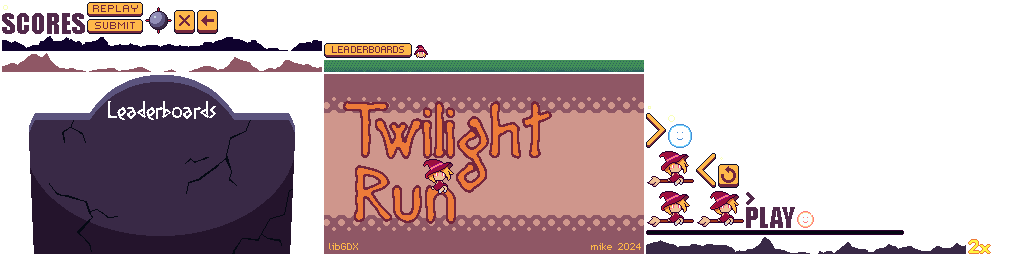
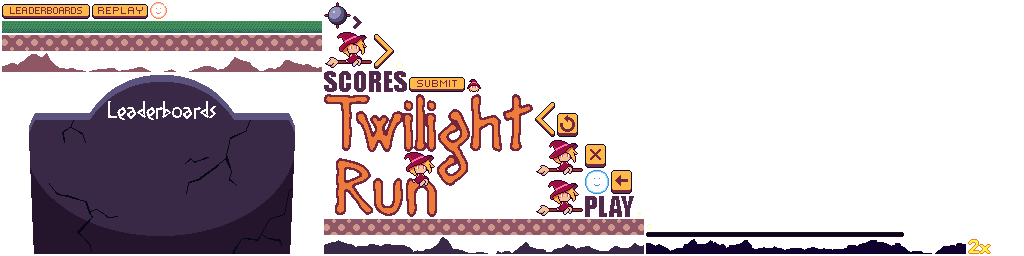
clean up title screen, added music cycle for testing

diff --git a/core/src/main/java/com/distraction/ttd2024/screen/TitleScreen.java b/core/src/main/java/com/distraction/ttd2024/screen/TitleScreen.java
@@ -10,12 +10,20 @@ import com.distraction.ttd2024.entity.FontEntity;
 
 public class TitleScreen extends Screen {
 
-    private final TextureRegion bg;
+    private static final Color BG_COLOR1 = Color.valueOf("8F5765");
+    private static final Color BG_COLOR2 = Color.valueOf("CF968C");
+
+    private final TextureRegion bg1;
+    private final TextureRegion bg2;
+    private final TextureRegion title;
     private final Entity playButton;
     private final Entity scoresButton;
     private final Entity arrow;
 
     private final FontEntity playerFont;
+    private final FontEntity engineFont;
+    private final FontEntity creditsFont;
+    private final FontEntity versionFont;
 
     private final FontEntity errorFont;
     private float errorFontTime;
@@ -26,7 +34,9 @@ public class TitleScreen extends Screen {
     public TitleScreen(Context context) {
         super(context);
 
-        bg = context.getImage("title");
+        bg1 = context.getImage("titlebg1");
+        bg2 = context.getImage("titlebg2");
+        title = context.getImage("title");
         playButton = new Entity(context, context.getImage("play"), 250, 80);
         scoresButton = new Entity(context, context.getImage("scores"), 266, 55);
         arrow = new Entity(context, context.getImage("menuarrow"), 216, -100);
@@ -35,11 +45,13 @@ public class TitleScreen extends Screen {
         in = new Transition(context, Transition.Type.CHECKERED_IN, 0.5f, () -> ignoreInput = false);
         out = new Transition(context, Transition.Type.CHECKERED_OUT, 0.5f, () -> context.sm.push(new PlayScreen(context)));
 
-        playerFont = new FontEntity(context, context.getFont(Context.FONT_NAME_M5X716));
-        playerFont.setText("Player: " + context.data.name);
+        playerFont = new FontEntity(context, context.getFont(Context.FONT_NAME_M5X716), "Player: " + context.data.name, 5, Constants.HEIGHT - 10);
         playerFont.center = false;
-        playerFont.x = 5;
-        playerFont.y = Constants.HEIGHT - 10;
+        engineFont = new FontEntity(context, context.getFont(Context.FONT_NAME_M5X716), "libGDX", 4, 15);
+        engineFont.center = false;
+        creditsFont = new FontEntity(context, context.getFont(Context.FONT_NAME_M5X716), "mike 2024", 4, 5);
+        creditsFont.center = false;
+        versionFont = new FontEntity(context, context.getFont(Context.FONT_NAME_M5X716), Constants.VERSION_STRING, Constants.WIDTH - 20, 5);
 
         errorFont = new FontEntity(context, context.getFont(Context.FONT_NAME_M5X716));
         errorFont.x = Constants.WIDTH / 2f;
@@ -104,12 +116,24 @@ public class TitleScreen extends Screen {
     public void render() {
         sb.begin();
         sb.setProjectionMatrix(uiCam.combined);
+
+        sb.setColor(BG_COLOR1);
+        sb.draw(pixel, 0, 0, Constants.WIDTH, 23);
+        sb.draw(pixel, 0, Constants.HEIGHT - 23, Constants.WIDTH, 23);
+        sb.setColor(BG_COLOR2);
+        sb.draw(pixel, 0, 39, Constants.WIDTH, 102);
         sb.setColor(Color.WHITE);
-        sb.draw(bg, 0, 0);
+        sb.draw(bg1, 0, Constants.HEIGHT - 39);
+        sb.draw(bg2, 0, 23);
+        sb.draw(title, 19, 30);
+
         playButton.render(sb);
         scoresButton.render(sb);
         arrow.render(sb);
         playerFont.render(sb);
+        engineFont.render(sb);
+        creditsFont.render(sb);
+        versionFont.render(sb);
         if (errorFontTime > 0) {
             errorFont.render(sb);
         }

diff --git a/core/src/main/java/com/distraction/ttd2024/screen/PlayScreen.java b/core/src/main/java/com/distraction/ttd2024/screen/PlayScreen.java
@@ -117,8 +117,9 @@ public class PlayScreen extends Screen {
 
         leaderboardsButton = new Entity(context, context.getImage("leaderboardsbutton"), Constants.WIDTH / 2f, 30);
 
-        context.audio.stopMusic();
-        context.audio.nextMusic(0.2f, true);
+        if (!context.audio.isMusicPlaying()) {
+            context.audio.nextMusic(0.2f, true);
+        }
     }
 
     private void hit() {
@@ -202,6 +203,15 @@ public class PlayScreen extends Screen {
         return ret.toString();
     }
 
+    private void restart() {
+        context.data.reset();
+        out.setCallback(() -> {
+            context.data.reset();
+            context.sm.replace(new PlayScreen(context));
+        });
+        out.start();
+    }
+
     @Override
     public void resume() {
         if (fromLeaderboards) {
@@ -225,16 +235,10 @@ public class PlayScreen extends Screen {
                     ignoreInput = true;
                     out.setCallback(() -> context.sm.pop());
                     out.start();
-                    context.audio.stopMusic();
                 }
                 if (!isReplay && restartButton.contains(m.x, m.y)) {
                     ignoreInput = true;
-                    context.data.reset();
-                    out.setCallback(() -> {
-                        context.data.reset();
-                        context.sm.replace(new PlayScreen(context));
-                    });
-                    out.start();
+                    restart();
                 }
                 if (done) {
                     if (submitButton.contains(m.x, m.y)) {
@@ -246,6 +250,14 @@ public class PlayScreen extends Screen {
                         context.sm.push(new ScoreScreen(context));
                     }
                 }
+            }
+
+            if (Gdx.input.isKeyPressed(Input.Keys.R)) {
+                ignoreInput = true;
+                restart();
+            }
+            if (Gdx.input.isKeyJustPressed(Input.Keys.M)) {
+                context.audio.nextMusic(0.2f, true);
             }
 
             if (!done) {
@@ -324,7 +336,6 @@ public class PlayScreen extends Screen {
         // done
         if (!done && player.x >= TOTAL_DISTANCE) {
             done = true;
-//            context.audio.stopMusic();
             player.up = player.down = player.left = player.right = false;
             if (isReplay) {
                 out.setCallback(() -> context.sm.pop());

diff --git a/core/src/main/java/com/distraction/ttd2024/Constants.java b/core/src/main/java/com/distraction/ttd2024/Constants.java
@@ -2,11 +2,14 @@ package com.distraction.ttd2024;
 
 public class Constants {
 
+    public static final int VERSION = 1;
+    public static final String VERSION_STRING = "v" + VERSION + ".0.0";
+
     public static final String TITLE = "Twilight Run";
 
     public static final int WIDTH = 320;
     public static final int HEIGHT = 180;
-    public static final int SCALE = 4;
+    public static final int SCALE = 3;
     public static final int SWIDTH = WIDTH * SCALE;
     public static final int SHEIGHT = HEIGHT * SCALE;
 
@@ -20,9 +23,9 @@ public class Constants {
 
     // not for you
     static {
-//        APP_ID = ApiConstants.APP_ID;
-//        API_KEY = ApiConstants.API_KEY;
-//        LEADERBOARD_ID = ApiConstants.LEADERBOARD_ID;
+        APP_ID = ApiConstants.APP_ID;
+        API_KEY = ApiConstants.API_KEY;
+        LEADERBOARD_ID = ApiConstants.LEADERBOARD_ID;
     }
 
 }

diff --git a/core/src/main/java/com/distraction/ttd2024/audio/AudioHandler.java b/core/src/main/java/com/distraction/ttd2024/audio/AudioHandler.java
@@ -82,6 +82,12 @@ public class AudioHandler {
         }
     }
 
+    public boolean isMusicPlaying() {
+        if (currentlyPlaying == null) return false;
+        if (currentlyPlaying.getMusic() == null) return false;
+        return currentlyPlaying.getMusic().isPlaying();
+    }
+
     public void playMusic(String key, float volume, boolean looping) {
         Music newMusic = music.get(key);
         if (newMusic == null) {

diff --git a/core/src/main/java/com/distraction/ttd2024/entity/FontEntity.java b/core/src/main/java/com/distraction/ttd2024/entity/FontEntity.java
@@ -26,6 +26,15 @@ public class FontEntity extends Entity {
         glyphLayout.setText(font,"");
     }
 
+    public FontEntity(Context context, BitmapFont font, String text, float x, float y) {
+        super(context);
+        this.font = font;
+        glyphLayout = new GlyphLayout();
+        setText(text);
+        this.x = x;
+        this.y = y;
+    }
+
     public String getText() {
         return currentText;
     }
